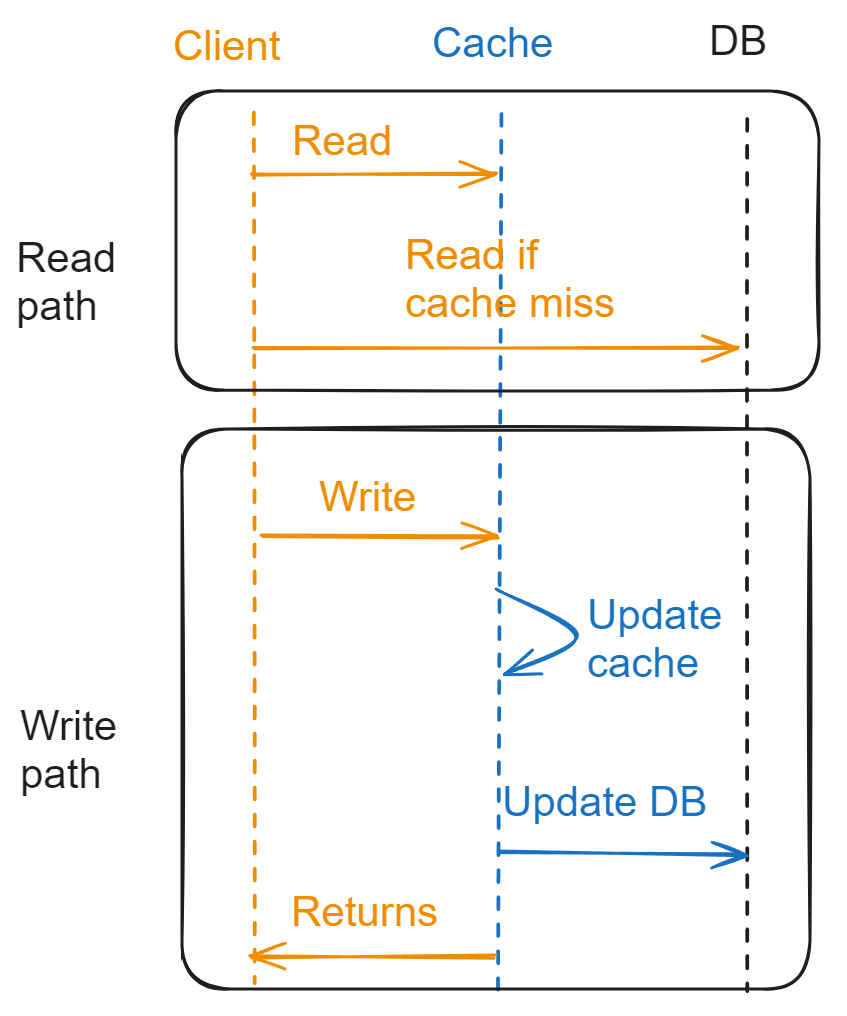
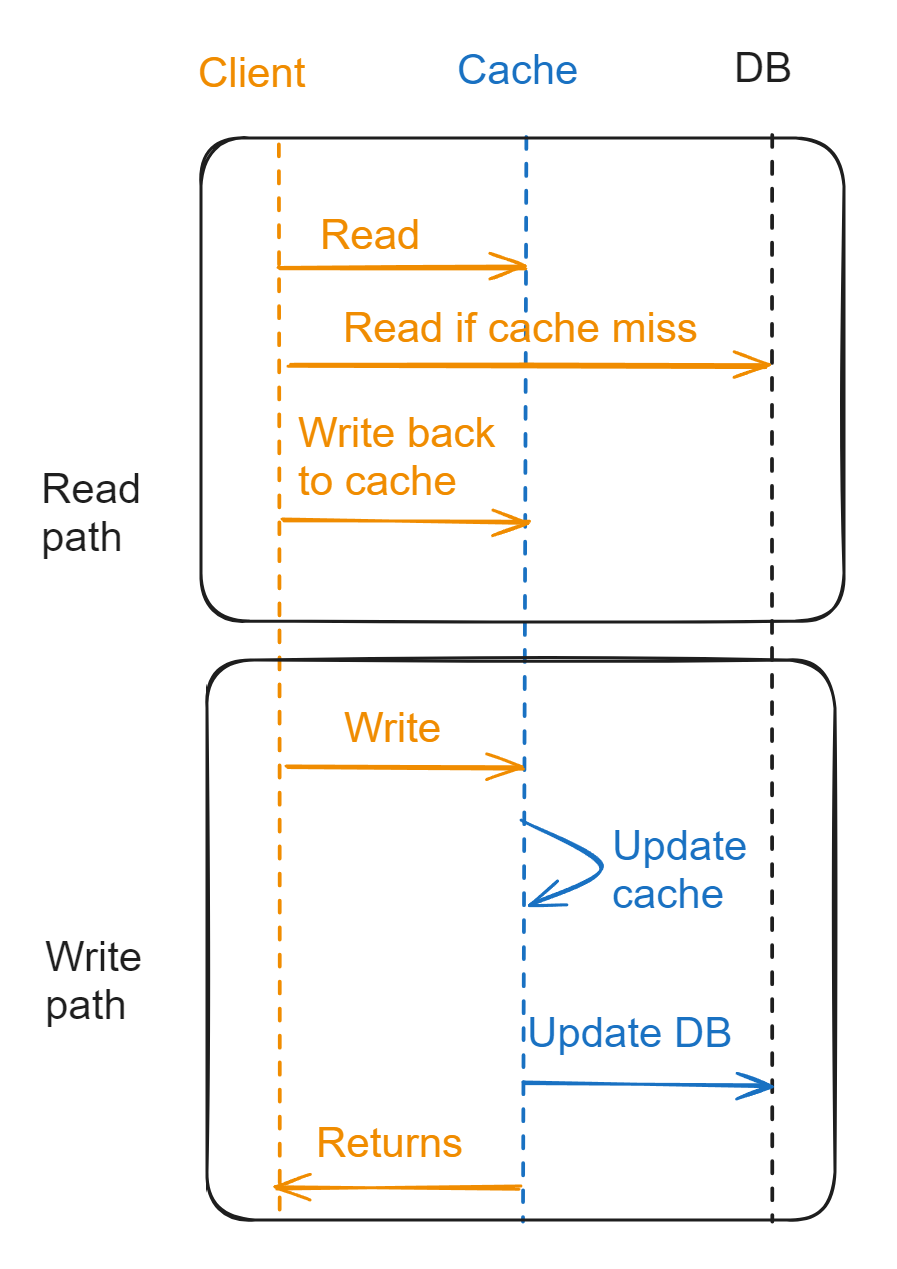
refactor

diff --git a/cache_typical_topics/access_patterns.md b/cache_typical_topics/access_patterns.md
@@ -9,19 +9,14 @@
   - [Flowchart](#flowchart-2)
   - [Cons: Data inconsistency](#cons-data-inconsistency-2)
   - [Asynchronous version](#asynchronous-version-1)
-- [Write behind/back cache](#write-behindback-cache)
-  - [Def](#def)
+- [Write back](#write-back)
+  - [Flowchart](#flowchart-3)
   - [Pros](#pros)
-  - [Cons](#cons)
-    - [Stale data](#stale-data)
-    - [Lose update](#lose-update)
-- [Write around cache](#write-around-cache)
-  - [Def](#def-1)
-  - [Pros](#pros-1)
+  - [Cons: Data inconsistency](#cons-data-inconsistency-3)
 - [Refresh ahead](#refresh-ahead)
-  - [Def](#def-2)
-  - [Pros](#pros-2)
-  - [Cons](#cons-1)
+  - [Flowchart](#flowchart-4)
+  - [Pros](#pros-1)
+  - [Cons](#cons)
 - [References](#references)
 
 # Cache aside
@@ -67,37 +62,25 @@
 
 ![Cache read through](../.gitbook/assets/cache_writethrough_improve.png)
 
-# Write behind/back cache
-## Def
-*  In this strategy, the application writes data directly to the caching system. Then after a certain configured interval, the written data is asynchronously synced to the underlying data source. So here the caching service has to maintain a queue of ‘write’ operations so that they can be synced in order of insertion.
-
-![write behind pattern](../.gitbook/assets/cache_writebehind_pattern.png)
-
-## Pros
+# Write back
 * Suitable for high read & write throughput system. Used more often in operating system's write to cache
   * Linux page cache algorithm
   * Asynchronously write message to disk in message queue
-* Since the application writes only to the caching service, it does not need to wait till data is written to the underlying data source. Read and write both happens at the caching side. Thus it improves performance.
-* The application is insulated from database failure. If database fails, queued items can be retried or re-queued.
 
-## Cons
-### Stale data
-* Eventual consistency between database & caching system. So any direct operation on database or joining operation may use stale data.
+## Flowchart
+* When updating data, only update cache. When cache keys expire, these entries will be persisted to DB. 
 
-### Lose update
-* Since in this strategy cache is written first & then database — they are not written in a transaction, if cached items can not be written to the database, some rollback process must be in-place to maintain consistency over a time window.
-
-* Write-behind caching may allow out of order database updates, so database have to be able to relax foreign key constraints. Also if the database is a shared database, other apps may also use it, hence no way to know whether write-behind cache updates will conflict with other external updates. This has to be handled manually or heuristically.
-
-# Write around cache
-## Def
-* def: write directly goes to the DB. The cache reads the info from DB in case of a miss
+![write back pattern](../.gitbook/assets/cache_write_back.png)
 
 ## Pros
-* use-case: lower write load to cache and faster writes, but can lead to higher read latency in case of applications which write and re-read the information quickly
+* If cache system could be high available, then this pattern could greatly reduce the inconsistency problem. 
+* Since the application writes only to the caching service, it does not need to wait till data is written to the underlying data source. Read and write both happens at the caching side. Thus it improves performance.
+
+## Cons: Data inconsistency
+* If cache suddenly crashes, then the data cached inside will all be lost. 
 
 # Refresh ahead
-## Def
+## Flowchart
 So what refresh ahead caching does is it essentially refreshes the cache at a configured interval just before the next possible cache access although it might take some time due to network latency to refresh the data & meanwhile few thousand read operation already might have happened in a very highly read heavy system in just a duration of few milliseconds.
 
 ## Pros
